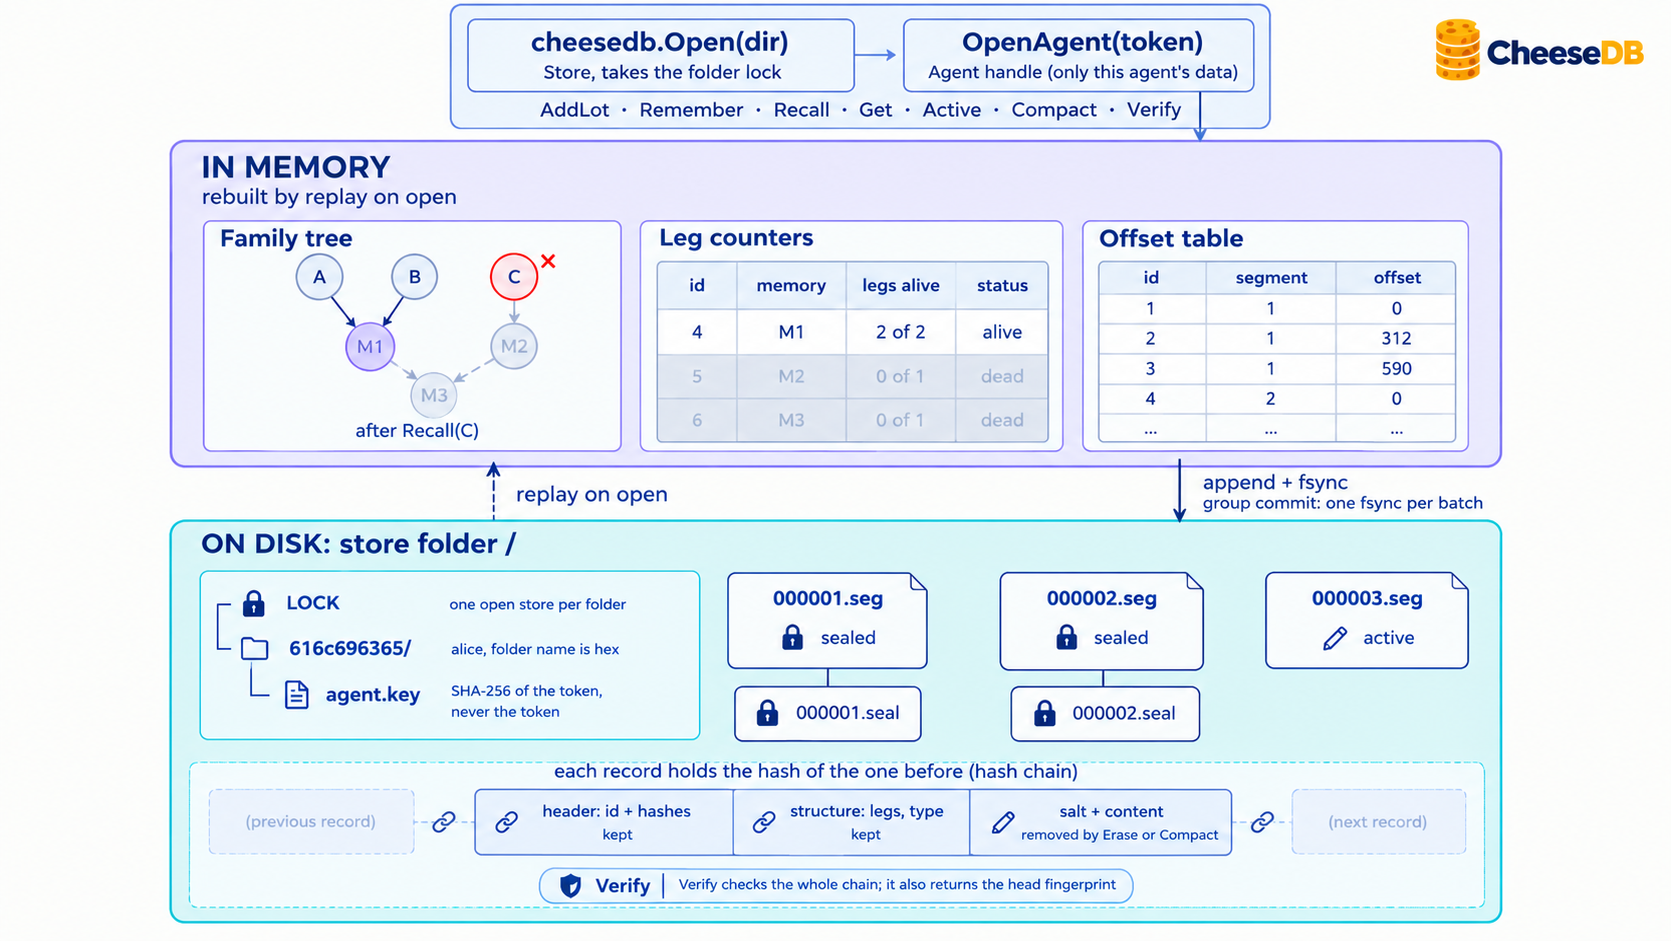
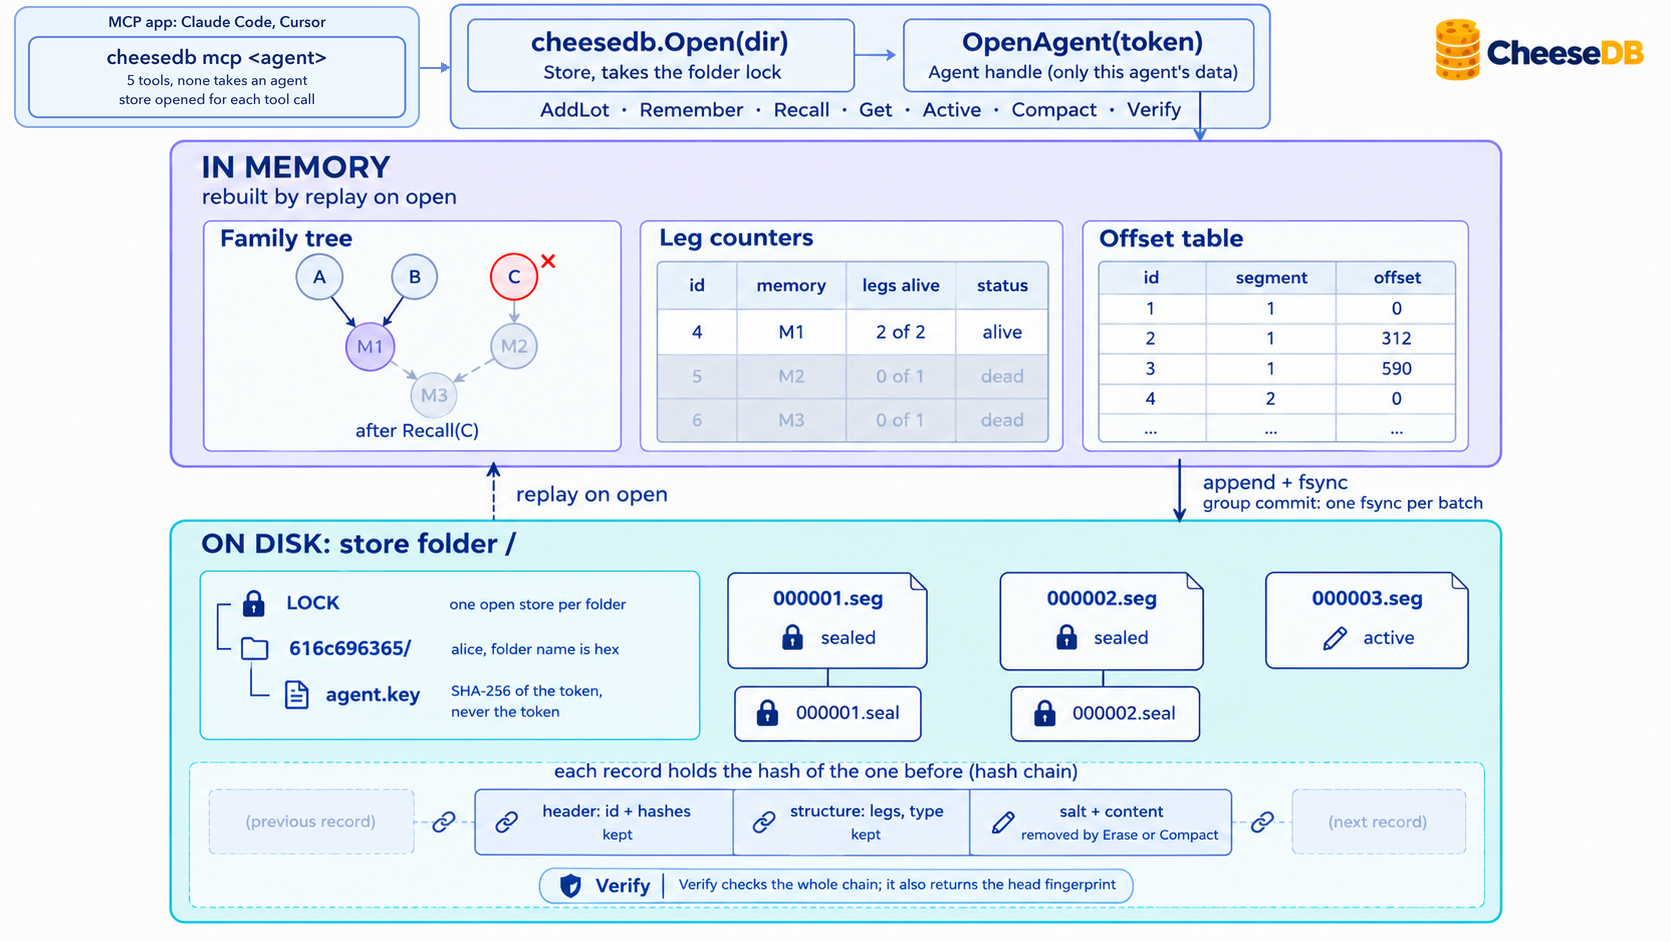
Show the MCP server in the architecture picture; prepare the v0.2.0 changelog
docs/architecture.png gets an MCP app box feeding the library API.

CHANGELOG: the Unreleased list already shipped in v0.1.1, so it moves to
a v0.1.1 section, and the MCP server, the lint job and the Windows
directory-flush change go under v0.2.0.

Changed region(s): [[0.0, 0.0, 0.249, 0.1541], [0.249, 0.0616, 0.2801, 0.0925]]

diff --git a/CHANGELOG.md b/CHANGELOG.md
@@ -2,13 +2,16 @@
 
 cheesedb follows [semantic versioning](https://semver.org). Until v1.0.0, the API and the on-disk format may change between minor versions.
 
-## Unreleased
+## v0.2.0 (preview)
 
 - **A local MCP server: `cheesedb mcp <agent>`.** Claude Code, Cursor and other MCP apps can use one agent's memory with no code, through five tools (`add_lot`, `remember`, `recall`, `get`, `list_memories`), over standard input and output. No tool takes an agent id. `recall` erases the text from disk unless told otherwise, and `get` never shows the text of a recalled item. A model that can run shell commands can still bypass the tools; see [Use from AI apps](README.md#use-from-ai-apps-mcp) and [THREAT_MODEL.md](THREAT_MODEL.md).
 - **CI runs `staticcheck` and `govulncheck`** in a separate `lint` job, and the workflow's token is read-only.
+- **Windows:** `Open` no longer fails on the directory flush, which Windows rejects. The guarantee there is weaker than on macOS and Linux (see [Limits](README.md#limits)); Windows support is still not complete.
+
+## v0.1.1 (preview)
+
 - **`cheesedb version`** prints the version of the command, for example `cheesedb v0.1.0`.
 - **A fuzz test for the record decoder** (`FuzzDecode`): `Decode` must never panic on any bytes, every failure must be a documented error, and anything it accepts must encode back to the same bytes. Run it with `go test -fuzz=FuzzDecode ./internal/record`.
-
 - **Benchmarks now include Neo4j** (a graph database), and the 10,000-memory recall is measured end to end instead of computed. See [BENCHMARKS.md](BENCHMARKS.md).
 - **The website is now at [cheesedb.dev](https://cheesedb.dev).**
 
